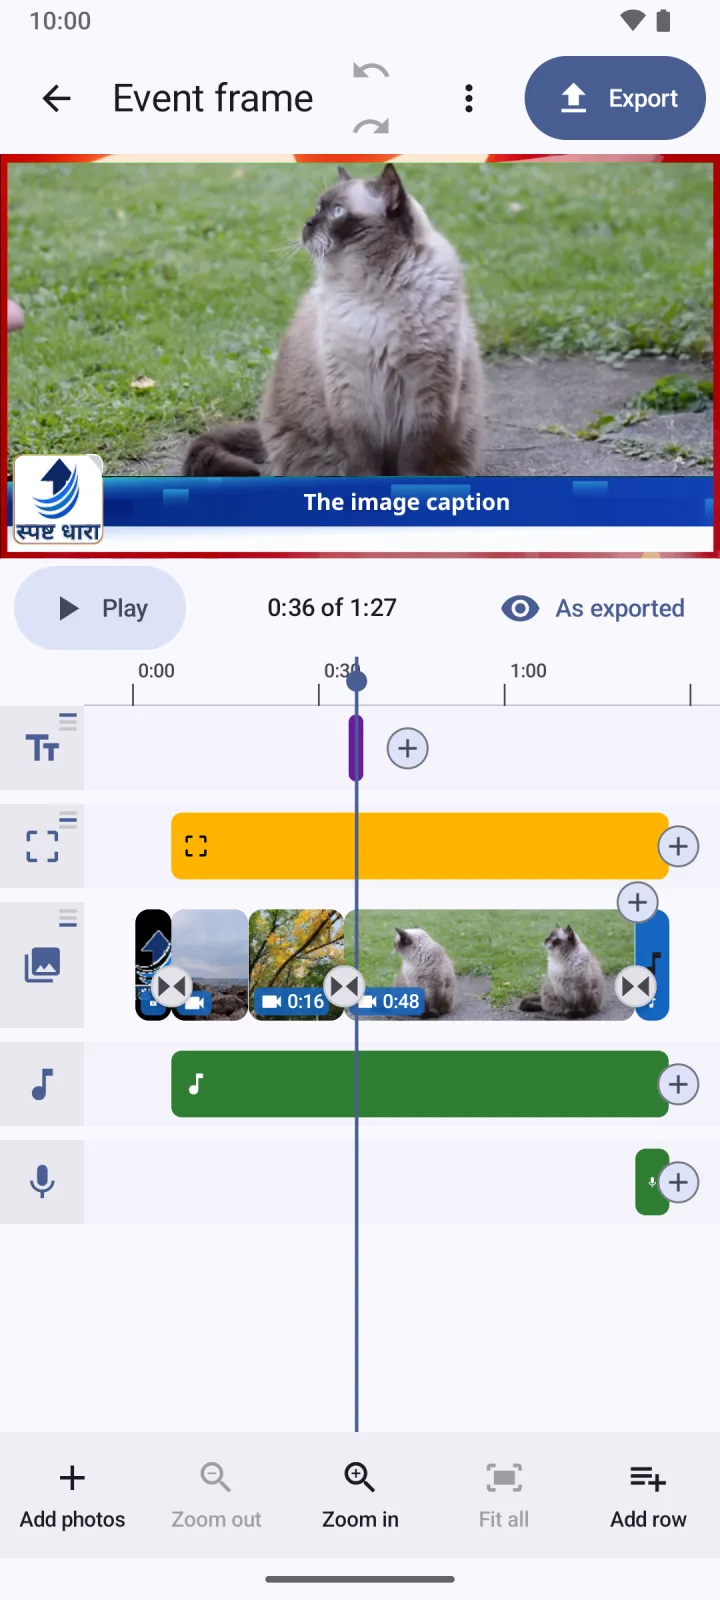
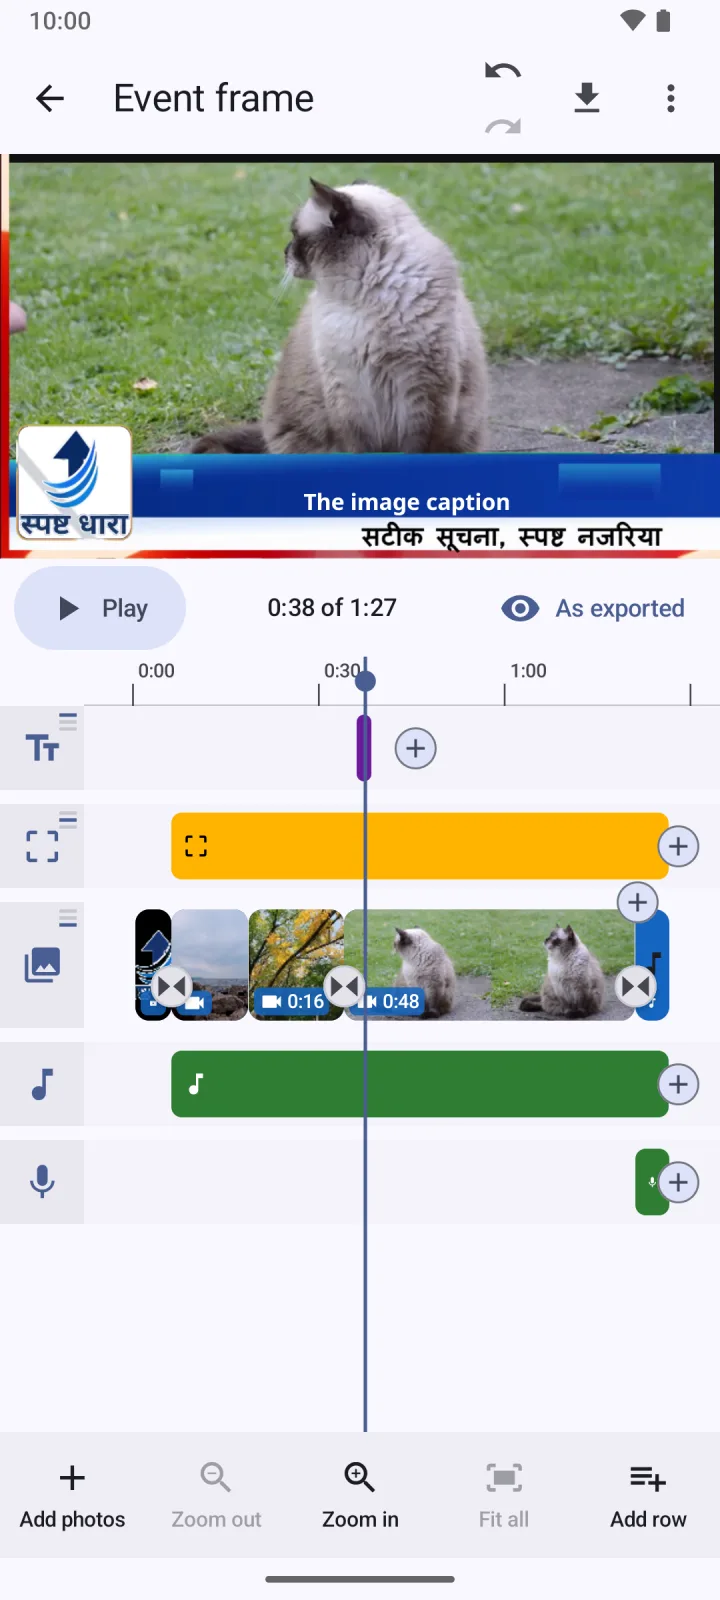
docs(screenshots): Retake every shot on the current app
Retake all 15 README and website screenshots on main at 47e36e1 with
the same demo clips, emulator profile and names as the last refresh,
and add 8 shots for new screens: frame setup (screen colour and
picture area), trim handles, Lower for talk, Record voice, the shape
question, the More options menu and Settings.

Update the README and site text to match the app: the download button
replaces Export, a new install has no built-in preset, presets are
edited from Home only, and the features now cover video shapes, frame
setup, keeping a copy of preset files, caption box handles, the
caption Animation tab, trim handles, Lower for talk and Record voice.
Download links, release notes and version lines are unchanged.

diff --git a/site/index.html b/site/index.html
@@ -203,20 +203,28 @@ footer a{color:var(--muted)}
 <section id="screenshots" class="alt">
   <div class="wrap">
     <h2>See it in action</h2>
-    <p class="sub">Real ClearMovie screens, taken while making a short video from three clips with the Event frame preset and its caption.</p>
+    <p class="sub">Real ClearMovie screens, taken while making a short video from three clips with a preset called Event frame and its caption.</p>
     <div class="shots">
-      <figure><img src="screenshots/home.webp" width="720" height="1600" loading="lazy" alt="The home screen: the Event frame preset ready with an Edit button, Start without a preset, New preset, and the video under My videos"><figcaption>Pick a preset<small>or start without one</small></figcaption></figure>
-      <figure><img src="screenshots/preset-review.webp" width="720" height="1600" loading="lazy" alt="What this preset adds: the intro and frame cards, each with Play, Replace and Skip for this video, and a Next button"><figcaption>Check the preset<small>replace or skip any part</small></figcaption></figure>
+      <figure><img src="screenshots/home.webp" width="720" height="1600" loading="lazy" alt="The home screen: the Event frame preset with an Edit button, Start without a preset, New preset, and the video under My videos"><figcaption>Pick a preset<small>or start without one</small></figcaption></figure>
+      <figure><img src="screenshots/preset-review.webp" width="720" height="1600" loading="lazy" alt="What this preset adds: the intro and frame cards (the ending is further down), each with Play, Replace and Skip for this video, and a Next button"><figcaption>Check the preset<small>replace or skip any part</small></figcaption></figure>
       <figure><img src="screenshots/media-pick.webp" width="720" height="1600" loading="lazy" alt="The Android photo picker with three videos selected and an Add (3) button"><figcaption>Add photos and videos<small>with Android's own picker</small></figcaption></figure>
-      <figure><img src="screenshots/editor.webp" width="720" height="1600" loading="lazy" alt="The editor: the caption on the frame's blue strip in the preview, and a timeline with text, frame, photos and videos, music and voice rows"><figcaption>Arrange the timeline<small>every row in view</small></figcaption></figure>
-      <figure><img src="screenshots/caption.webp" width="720" height="1600" loading="lazy" alt="The caption editor on the Font tab: Plain, Bold, Classic and Classic bold, each showing English and Hindi letters"><figcaption>Add a caption<small>Hindi and English fonts</small></figcaption></figure>
+      <figure><img src="screenshots/editor.webp" width="720" height="1600" loading="lazy" alt="The editor: back, the video's title, undo and redo, a download button to save the video and More options at the top; the caption on the frame's blue strip in the preview; and a timeline with text, frame, photos and videos, music and voice rows"><figcaption>Arrange the timeline<small>every row in view</small></figcaption></figure>
+      <figure><img src="screenshots/caption.webp" width="720" height="1600" loading="lazy" alt="The caption editor on the Font tab: Plain, Bold, Classic and Classic bold, each showing English and Hindi letters, with handles on the caption's box in the preview"><figcaption>Add a caption<small>Hindi and English fonts</small></figcaption></figure>
       <figure><img src="screenshots/transitions.webp" width="720" height="1600" loading="lazy" alt="The transition picker with a small preview of each fade and wipe, with Wipe Left chosen"><figcaption>Choose a transition<small>each with a preview</small></figcaption></figure>
       <figure><img src="screenshots/export.webp" width="720" height="1600" loading="lazy" alt="Save your video: Best, Good (suggested) or Small, each with its size"><figcaption>Choose a size<small>Best, Good or Small</small></figcaption></figure>
       <figure><img src="screenshots/export-done.webp" width="720" height="1600" loading="lazy" alt="Your video is ready: saved in the ClearMovie album, with Share and Play buttons"><figcaption>Share it<small>saved to your gallery</small></figcaption></figure>
-      <figure><img src="screenshots/preset-create.webp" width="720" height="1600" loading="lazy" alt="New preset: a name, intro and frame switches, and the kind of ending: a spoken message, a video or none"><figcaption>Make a preset<small>name it, pick its parts</small></figcaption></figure>
-      <figure><img src="screenshots/preset-edit.webp" width="720" height="1600" loading="lazy" alt="Edit preset, scrolled down: a preview of its caption on the frame, its intro, frame and ending files, and Save"><figcaption>Edit a preset<small>from Home or Settings</small></figcaption></figure>
-      <figure><img src="screenshots/preset-caption-style.webp" width="720" height="1600" loading="lazy" alt="Change caption style on the Colour tab: white words, with switches for an outline and a band behind the words"><figcaption>Set its caption style<small>words, place, size, font, colour</small></figcaption></figure>
-      <figure><img src="screenshots/editor-caption.webp" width="720" height="1600" loading="lazy" alt="The caption selected in the editor: white on the frame's blue strip, with Edit text, Animation, Earlier, Later, Other row and Delete below"><figcaption>The caption, selected<small>it starts in the preset's style</small></figcaption></figure>
+      <figure><img src="screenshots/preset-create.webp" width="720" height="1600" loading="lazy" alt="New preset, scrolled down: the kind of ending, the video shape (Landscape, Portrait or Square), a Keep a copy of the files switch, and Create"><figcaption>Make a preset<small>its parts, shape and files</small></figcaption></figure>
+      <figure><img src="screenshots/frame-setup.webp" width="720" height="1600" loading="lazy" alt="Set up this frame, Screen colour tab: the frame's green screen tapped and removed, shown as a checkerboard, with Colour chosen, How much to remove and a moment in the frame video"><figcaption>Set up the frame<small>tap the colour to remove</small></figcaption></figure>
+      <figure><img src="screenshots/frame-area.webp" width="720" height="1600" loading="lazy" alt="Set up this frame, Picture area tab: a box with handles on the frame shows where photos and videos go, with Fit to the screen colour"><figcaption>Place the picture<small>drag the box or its edges</small></figcaption></figure>
+      <figure><img src="screenshots/preset-edit.webp" width="720" height="1600" loading="lazy" alt="Edit preset, scrolled down: a preview of its caption on the frame, its intro, frame and ending files with Change files, Save, and a delete button at the top"><figcaption>Edit a preset<small>from Home</small></figcaption></figure>
+      <figure><img src="screenshots/preset-caption-style.webp" width="720" height="1600" loading="lazy" alt="Change caption style on the Animation tab: how a new caption comes in, None, Fade in, Zoom in, Pop, Bounce or Slide in, with Fade in chosen"><figcaption>Set its caption style<small>words, place, font, colour, animation</small></figcaption></figure>
+      <figure><img src="screenshots/editor-caption.webp" width="720" height="1600" loading="lazy" alt="The caption selected in the editor: white on the frame's blue strip with handles on its box, and Edit text, Animation, Earlier, Later, Other row and Delete below"><figcaption>The caption, selected<small>drag a handle to resize it</small></figcaption></figure>
+      <figure><img src="screenshots/item-handles.webp" width="720" height="1600" loading="lazy" alt="A video selected on the timeline with a handle at each end, and its toolbar of Trim, Add caption, Transition, Animation and Volume"><figcaption>Trim on the timeline<small>drag either end of an item</small></figcaption></figure>
+      <figure><img src="screenshots/talk-level.webp" width="720" height="1600" loading="lazy" alt="Lower for talk: a switch to lower the music when people talk, and a slider for the music level, set to 10%"><figcaption>Lower for talk<small>music steps aside for voices</small></figcaption></figure>
+      <figure><img src="screenshots/record-voice.webp" width="720" height="1600" loading="lazy" alt="Add to a voice row: Music or sound from your files, or Record voice, to speak over the video as it plays"><figcaption>Record voice<small>speak while the video plays</small></figcaption></figure>
+      <figure><img src="screenshots/shape-first.webp" width="720" height="1600" loading="lazy" alt="What shape should your video be? Landscape, Portrait or Square, which can be changed later from More options"><figcaption>Choose a shape<small>landscape, portrait or square</small></figcaption></figure>
+      <figure><img src="screenshots/editor-menu.webp" width="720" height="1600" loading="lazy" alt="The editor's More options menu: Rename video, Video shape and Settings"><figcaption>More options<small>rename, shape, settings</small></figcaption></figure>
+      <figure><img src="screenshots/settings.webp" width="720" height="1600" loading="lazy" alt="Settings, scrolled to the end: Colours from wallpaper, Language, Storage, and the version with Open ClearMovie on GitHub"><figcaption>Settings<small>language, storage, about</small></figcaption></figure>
       <figure><img src="screenshots/editor-dark.webp" width="720" height="1600" loading="lazy" alt="The editor in the dark theme"><figcaption>Dark theme<small>follows your phone</small></figcaption></figure>
       <figure><img src="screenshots/editor-hindi.webp" width="720" height="1600" loading="lazy" alt="The editor in Hindi"><figcaption>In Hindi<small>also English and Hinglish</small></figcaption></figure>
       <figure class="wide"><img src="screenshots/editor-landscape.webp" width="1600" height="720" loading="lazy" alt="The editor held sideways: the preview on the left and the timeline on the right"><figcaption>Sideways too<small>the preview sits beside the timeline</small></figcaption></figure>
@@ -229,10 +237,10 @@ footer a{color:var(--muted)}
     <h2>Everything an event video needs</h2>
     <p class="sub">The features are chosen for one job: turning the photos and videos from a day into a video you can share. Every button has a label, and nothing is hidden behind jargon.</p>
     <div class="grid">
-      <div class="card"><div class="icon"><svg aria-hidden="true"><use href="#i-layers"/></svg></div><h3>Presets</h3><p>An intro, a green-screen frame overlay that runs across the whole video, and an ending, set up once and reused with one tap. You can replace or skip any part for a single video. From the next release you can also make your own presets, edit any preset, delete the ones you made or reset a built-in one, and give each one a caption style.</p></div>
+      <div class="card"><div class="icon"><svg aria-hidden="true"><use href="#i-layers"/></svg></div><h3>Presets</h3><p>An intro, a green-screen frame overlay that runs across the whole video, and an ending, set up once and reused with one tap. A new install starts with none: tap New preset on Home, choose its files and the video shape, then tap the frame's screen colour and place the picture area. Each preset keeps a caption style, including the animation captions come in with. You can replace or skip any part for a single video, and edit or delete any preset from Home.</p></div>
       <div class="card"><div class="icon"><svg aria-hidden="true"><use href="#i-share"/></svg></div><h3>Share from your gallery</h3><p>Select photos and videos in your gallery, tap Share, then choose ClearMovie. They land on the timeline in the order they were taken.</p></div>
-      <div class="card"><div class="icon"><svg aria-hidden="true"><use href="#i-timeline"/></svg></div><h3>A timeline that stays simple</h3><p>Photos and videos on one row, plus as many text, music, voice, picture-in-picture and frame rows as you need. Pinch to zoom, tap “+” to add something exactly where you want it, and edit from a toolbar of big, labelled buttons.</p></div>
-      <div class="card"><div class="icon"><svg aria-hidden="true"><use href="#i-text"/></svg></div><h3>Captions in Hindi &amp; English</h3><p>Captions start in the preset's spot, font and size. Drag them, resize them, recolour them, or tap Reset. Devanagari fonts are built in.</p></div>
+      <div class="card"><div class="icon"><svg aria-hidden="true"><use href="#i-timeline"/></svg></div><h3>A timeline that stays simple</h3><p>Photos and videos on one row, plus as many text, music, voice, picture-in-picture and frame rows as you need. Pinch to zoom, tap “+” to add something exactly where you want it, drag either end of an item to trim it, and edit from a toolbar of big, labelled buttons. Record your voice while the video plays, and lower the music while people talk.</p></div>
+      <div class="card"><div class="icon"><svg aria-hidden="true"><use href="#i-text"/></svg></div><h3>Captions in Hindi &amp; English</h3><p>Captions start in the preset's spot, font and size. Drag them, pull a handle on the box to resize them, recolour them, or tap Reset. Devanagari fonts are built in.</p></div>
       <div class="card"><div class="icon"><svg aria-hidden="true"><use href="#i-music"/></svg></div><h3>Music that steps aside</h3><p>The frame's music plays under the whole video. It is turned down automatically while your videos play with their own sound, and everything is turned down for the closing message.</p></div>
       <div class="card"><div class="icon"><svg aria-hidden="true"><use href="#i-layers"/></svg></div><h3>Transitions &amp; animations</h3><p>Crossfades, fades, wipes, slides and zooms between items, and gentle zooms or fade-ins on single photos and captions. Each one shows a live preview before you choose it.</p></div>
       <div class="card"><div class="icon"><svg aria-hidden="true"><use href="#i-rotate"/></svg></div><h3>Works in portrait and landscape</h3><p>Turn the phone sideways and the editor puts the preview on the left with the timeline beside it. A wide window on a tablet, foldable or in split-screen gets the same layout. The app follows your phone's light or dark mode, and uses your wallpaper colours on Android 12+.</p></div>
@@ -250,7 +258,7 @@ footer a{color:var(--muted)}
     <div class="steps">
       <div class="step"><h3>Pick a preset</h3><p>Choose your preset, or start without one. Check the intro, frame and ending, then tap Next.</p></div>
       <div class="step"><h3>Add photos &amp; videos</h3><p>Pick them in the app, or share them straight from the gallery. Drag to reorder, tap to trim or add a caption.</p></div>
-      <div class="step"><h3>Export &amp; share</h3><p>Tap Export, choose a size, and the finished video is saved to your gallery, ready to send.</p></div>
+      <div class="step"><h3>Export &amp; share</h3><p>Tap the download button at the top, choose a size, and the finished video is saved to your gallery, ready to send.</p></div>
     </div>
   </div>
 </section>

diff --git a/README.md b/README.md
@@ -49,20 +49,28 @@ later will not match it. ClearMovie needs Android 10 or newer.
 
 ## Screenshots
 
-ClearMovie from `main` (what will become 0.0.2) on an Android 16 emulator, making a
-short video from three clips with the Event frame preset and its caption.
+ClearMovie from `main` on an Android 16 emulator, making a short video from three
+clips with a preset called Event frame and its caption.
 
 | Pick a preset | Check the preset | Add photos and videos | Arrange the timeline |
 | :---: | :---: | :---: | :---: |
-| ![Home screen: the Event frame preset ready with an Edit button, Start without a preset, New preset, and the video under My videos](site/screenshots/home.webp) | ![What this preset adds: the intro and frame, each with Play, Replace and Skip](site/screenshots/preset-review.webp) | ![The Android photo picker with three videos selected](site/screenshots/media-pick.webp) | ![The editor: the caption on the frame's blue strip, and every row of the timeline](site/screenshots/editor.webp) |
+| ![Home screen: the Event frame preset with an Edit button, Start without a preset, New preset, and the video under My videos](site/screenshots/home.webp) | ![What this preset adds: the intro and frame (the ending is further down), each with Play, Replace and Skip](site/screenshots/preset-review.webp) | ![The Android photo picker with three videos selected](site/screenshots/media-pick.webp) | ![The editor: back, title, undo and redo, the download button and More options at the top, the caption on the frame's blue strip, and every row of the timeline](site/screenshots/editor.webp) |
 
 | Add a caption | Choose a transition | Choose a size | Share it |
 | :---: | :---: | :---: | :---: |
-| ![Caption editor, Font tab with English and Hindi letters](site/screenshots/caption.webp) | ![Transition picker with previews, Wipe Left chosen](site/screenshots/transitions.webp) | ![Save your video: Best, Good or Small](site/screenshots/export.webp) | ![Your video is ready, with Share and Play](site/screenshots/export-done.webp) |
+| ![Caption editor, Font tab with English and Hindi letters, and handles on the caption's box](site/screenshots/caption.webp) | ![Transition picker with previews, Wipe Left chosen](site/screenshots/transitions.webp) | ![Save your video: Best, Good or Small](site/screenshots/export.webp) | ![Your video is ready, with Share and Play](site/screenshots/export-done.webp) |
 
-| Make a preset | Edit a preset | Set its caption style | The caption, selected |
+| Make a preset | Set up the frame | Place the picture | Edit a preset |
 | :---: | :---: | :---: | :---: |
-| ![New preset: a name, intro and frame switches, and the kind of ending](site/screenshots/preset-create.webp) | ![Edit preset, scrolled down: a preview of its caption, its files and Save](site/screenshots/preset-edit.webp) | ![Change caption style, Colour tab: white words, no outline, no band](site/screenshots/preset-caption-style.webp) | ![The caption selected in the editor: white on the frame's blue strip, with Edit text, Animation, Earlier, Later, Other row and Delete below](site/screenshots/editor-caption.webp) |
+| ![New preset, scrolled down: the kind of ending, the video shape, Keep a copy of the files, and Create](site/screenshots/preset-create.webp) | ![Set up this frame, Screen colour tab: the green screen tapped and removed, with Colour chosen](site/screenshots/frame-setup.webp) | ![Set up this frame, Picture area tab: a box with handles shows where photos and videos go](site/screenshots/frame-area.webp) | ![Edit preset, scrolled down: a preview of its caption, its files and Save](site/screenshots/preset-edit.webp) |
+
+| Set its caption style | The caption, selected | Trim on the timeline | Lower for talk |
+| :---: | :---: | :---: | :---: |
+| ![Change caption style, Animation tab: None, Fade in, Zoom in, Pop, Bounce or Slide in, with Fade in chosen](site/screenshots/preset-caption-style.webp) | ![The caption selected in the editor, with handles on its box and Edit text, Animation, Earlier, Later, Other row and Delete below](site/screenshots/editor-caption.webp) | ![A video selected on the timeline with a handle at each end to trim it](site/screenshots/item-handles.webp) | ![Lower for talk: lower the music when people talk, to 10%](site/screenshots/talk-level.webp) |
+
+| Record voice | Choose a shape | More options | Settings |
+| :---: | :---: | :---: | :---: |
+| ![Add to a voice row: Music or sound, or Record voice while the video plays](site/screenshots/record-voice.webp) | ![What shape should your video be? Landscape, Portrait or Square](site/screenshots/shape-first.webp) | ![The editor's More options menu: Rename video, Video shape and Settings](site/screenshots/editor-menu.webp) | ![Settings, scrolled to the end: Colours from wallpaper, Language, Storage, and the version with Open ClearMovie on GitHub](site/screenshots/settings.webp) |
 
 <table>
   <tr><th>Dark theme</th><th>In Hindi</th><th colspan="2">Sideways too</th></tr>
@@ -75,22 +83,29 @@ short video from three clips with the Event frame preset and its caption.
 
 ## Features
 
-In ClearMovie 0.0.1, plus one addition already on `main` for 0.0.2:
+What ClearMovie on `main` does:
 
 - **Presets** - one tap sets up the intro, the frame overlay (with its green window
   keyed out so your photos and videos show through) and the ending, which can be a
   video or a closing voice clip. You can replace any part for a single video, or skip it.
 - **Your own presets** - make a new preset from Home, and edit or delete any preset there.
-  A new install starts with none: New preset comes first on Home. An install that had the
-  Event frame keeps it as a preset like any other. Each
+  A new install starts with none: Home shows your presets, then Start without a preset and
+  New preset. An install that had the Event frame keeps it as a preset like any other. A new
+  preset can use your files where they are, or keep a copy of them. Each
   preset keeps a caption style (words, place, size, font, colour, outline, band and the
   animation it comes in with) that new captions start from, with a live preview.
+- **Set up the frame** - tap the frame's screen colour (like a green screen) to remove it, and
+  drag the picture area to where your photos and videos should show. A frame item on the
+  timeline has Colour and Area buttons to change them for one video.
+- **Video shapes** - landscape, portrait or square. A preset has its shape; without a preset,
+  ClearMovie asks once, and More options > Video shape changes it later.
 - **Share from your gallery** - select photos and videos in the gallery, tap Share, and
   choose ClearMovie. They open on the timeline in the order they were taken.
 - **A timeline that stays simple** - photos and videos on one row you reorder by dragging,
   plus as many text, music, voice, picture-in-picture and frame rows as you want. Each row has an
   icon, rows can be rearranged, and you choose which one shows on top. Pinch to zoom, or
-  use the zoom buttons. A "+" before and after each item adds something right there.
+  use the zoom buttons. A "+" before and after each item adds something right there, and a
+  selected item has a handle at each end to trim it.
 - **Big, labelled buttons** - tap any item for a toolbar of icons with names under them
   (trim, split, speed, loop, photo duration, volume, text, transition, animation, replace,
   delete). It scrolls sideways when there are more.
@@ -102,7 +117,9 @@ In ClearMovie 0.0.1, plus one addition already on `main` for 0.0.2:
   items, and gentle zooms or fade-ins on single items, each with a live preview.
 - **Background music and ducking** - the frame's music plays under the whole video and
   is lowered automatically while your videos play with their own sound, and everything
-  is lowered for the closing voice.
+  is lowered for the closing voice. Lower for talk sets how low the music goes.
+- **Record voice** - add a voice row, tap its "+" and choose Record voice to speak while the
+  video plays, lined up with the picture.
 - **Light and dark, with your colours** - follows your phone's dark mode, takes its
   colours from your wallpaper on Android 12+, and has a themed icon.
 - **Portrait and landscape** - in the editor, landscape puts the preview on the left and the
@@ -111,8 +128,9 @@ In ClearMovie 0.0.1, plus one addition already on `main` for 0.0.2:
 - **Autosave** - work is saved as you go and recovered after a crash. Your videos are
   listed under "My videos"; tap a video's title in the editor to give it a name (new on
   `main`, coming in 0.0.2).
-- **Hardware-accelerated export** - Best (1080p), Good (720p) or Small (480p), saved
-  to your gallery and ready to play or share.
+- **Hardware-accelerated export** - tap the download button at the top, then choose Best
+  (1080p), Good (720p) or Small (480p). The video is saved to your gallery, ready to play
+  or share.
 
 ## Feature checklist
 
@@ -123,6 +141,9 @@ What has shipped, and what is still to come:
 - [x] One-time preset setup (choose the intro, frame and ending files on your phone) with a friendly repair screen if a file goes missing
 - [x] Preset review: replace or skip the intro, frame or ending for this video
 - [x] Make your own presets, edit and delete any preset, each with its own caption style
+- [x] Set up a frame: tap its screen colour to remove it and place the picture area (done on `main`)
+- [x] Video shapes: landscape, portrait or square, per preset or asked once without one (done on `main`)
+- [x] Presets can use your files where they are, or keep a copy (done on `main`)
 - [x] Add photos and videos with the system photo picker
 - [x] Share photos and videos from the gallery straight into a new video
 
@@ -136,6 +157,8 @@ What has shipped, and what is still to come:
 - [x] Photo duration
 - [x] Fit: fill the frame window (default), fit with a blurred background, or fit with bars
 - [x] Audio overlay with volume, fade and automatic ducking
+- [x] Lower for talk: choose how low the music goes while people talk (done on `main`)
+- [x] Trim handles at both ends of a selected item (done on `main`)
 - [x] Record voice: speak over the video as it plays, lined up with the picture (done on `main`, ships in 0.0.2)
 - [x] Captions with preset defaults, drag-to-place, drag-to-resize, fonts, size, colours, outline and background
 - [x] Undo and redo for every change
@@ -157,8 +180,8 @@ What has shipped, and what is still to come:
 - **Offline by design.** The app has no INTERNET permission: no servers, no
   telemetry, no analytics, no ads.
 - **Your media stays put.** Photos and videos are read from your gallery where they are.
-  The only files copied into the app are your preset files, and items the gallery can't
-  share permanently.
+  The only files copied into the app are preset files you chose to keep a copy of, and
+  items the gallery can't share permanently.
 - **The microphone only when you record.** It is asked for the first time you tap
   Record voice, used only while the recording panel shows, and recordings stay
   inside the app.
